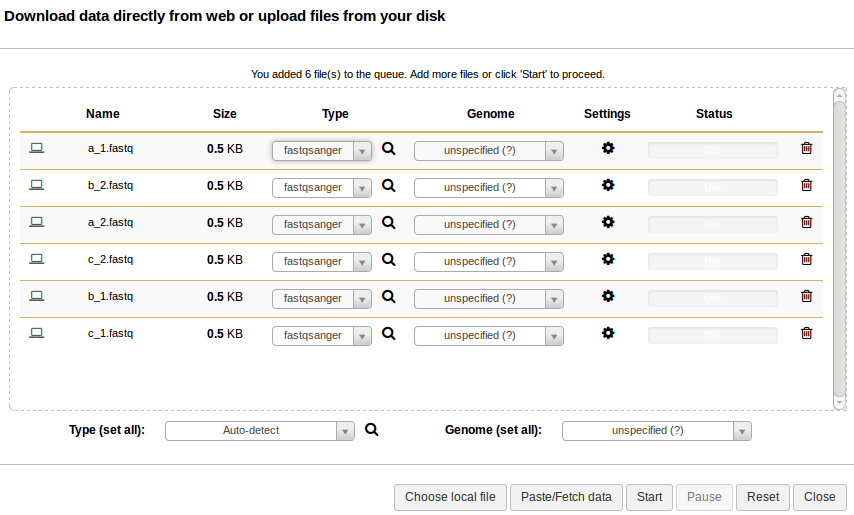
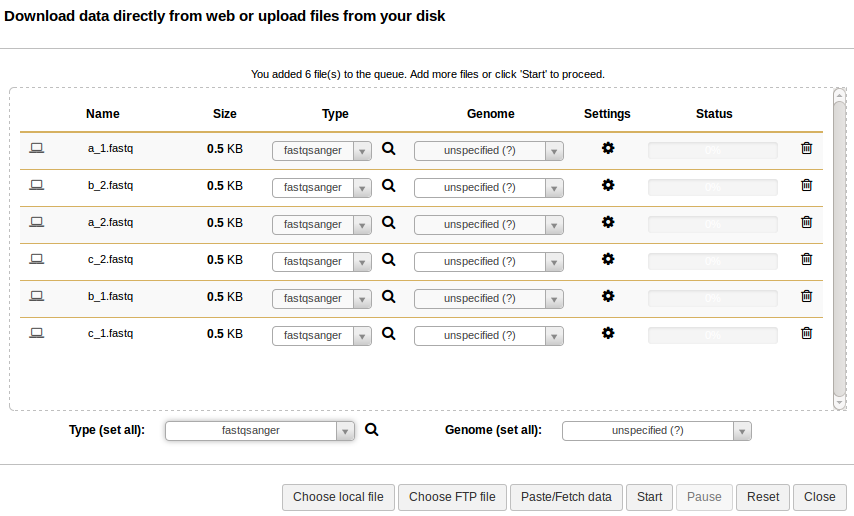
Finished user guide

diff --git a/docs/user-guide/usage.md b/docs/user-guide/usage.md
@@ -11,7 +11,7 @@ curl -sSL https://get.docker.com/ | sh # Installs Docker
 sudo docker run -t -p 48888:80 apetkau/snvphyl-galaxy:0.2-beta-1 # Downloads and runs SNVPhyl and Galaxy 
 ```
 
-This will install Docker, download the SNVPhyl Galaxy docker image, and run this image in a Docker container.  See the [Docker Install][] guide for more details.
+This will install Docker, download the SNVPhyl Galaxy docker image, and run this image in a Docker container.  This may take a while to fullly download and start up.  See the [Docker Install][] guide for more details.
 
 Once running, you may log into the SNVPhyl Galaxy instance by going to <http://localhost:48888> on your machine.  This should present you with a screen like the following:
 
@@ -29,28 +29,39 @@ The data must first be uploaded to the SNVPhyl Galaxy instance before it can be 
 
 This should bring up a window for uploading files to Galaxy.
 
+![get-data-window-galaxy][]
+
 ## Reference Genome
 
-The reference genome should be in **fasta** format.  Galaxy will auto-detected the correct file format on upload.  When the correct file is chosen, click **Start** to begin uploading.  This will schedule an upload task in Galaxy and place the reference file in your Galaxy **History**.
+The reference genome should be in **fasta** format.  Galaxy will auto-detected the correct file format on upload.  For the test data, this file is called `reference.fasta`.  When the correct file is chosen, click **Start** to begin uploading.  This will schedule an upload task in Galaxy and place the reference file in your Galaxy **History**.
 
 ![upload-reference][]
 
 ## Invalid Positions Masking File
 
-An optional input for SNVPhyl is a list of positions on the reference genome to exclude when constructing a phylogeny.  This can be useful for excluding problematic regions such as phage regions.  The list of regions should be defined in a tab-deliminated ([BED][]-like) file which looks as follows:
+An optional input for SNVPhyl is a list of positions on the reference genome to exclude when constructing a phylogeny.  This can be useful for excluding problematic regions such as phage regions, plasmids, etc.  The list of regions should be defined in a tab-deliminated ([BED][]-like) file which looks as follows:
 
 ```
 #Chromosome    Start    End
 reference      1        10
 ```
 
-For the provided dataset, this file is named `invalid-positions.bed`.  Select and upload this file similar to uploading the reference genome.  When complete, the file should show up in your Galaxy history.
+The **Chromosome** field references the chromosome/contig/fasta sequence name in the reference file.
+
+```
+>reference
+TCCACAAGCCATTGTGTGTAATTAACCACTAATTGTGTATAAGTTTAAACTAATTGAAAAGGTTATCCAC
+```
+
+The start and end are start/end coordinates on this fasta sequence.
+
+An example file, `invalid-positions.bed`, is provided in the test dataset.  Select and upload this file similar to uploading the reference genome.  When complete, the file should show up in your Galaxy history.
 
 ![upload-invalid-positions][]
 
 ## Sequence Reads
 
-Sequence reads should be uploaded to Galaxy in the **fastqsanger** format.  From the upload window, select the all the sequence reads under `reads/` and set the type to **fastqsanger** (Galaxy will not properly auto-detect sequence reads).  This should look like the following.
+Sequence reads should be uploaded to Galaxy in the **fastqsanger** format.  From the upload window, select the all the sequence reads under `reads/` and set the type to **fastqsanger** (Galaxy defaults to type **fastq**, which is not as useful).  This should look like the following.
 
 ![upload-sequence-reads][]
 
@@ -60,10 +71,99 @@ When all the reads are uploaded, you should see the following in your Galaxy his
 
 ## Preparing Sequence Reads
 
-SNVPhyl makes use of a data structure in Galaxy called [Dataset Collections][].  Dataset collections allow the combining of files into a single entry in Galaxy to execute in a workflow.  The SNVPhyl workflow assumes all sequence reads are combined in a paired-end dataset collection, which will properly associated each pair of sequence reads files.
+SNVPhyl makes use of a data structure in Galaxy called [Dataset Collections][].  Dataset collections allow the grouping of files into a single entry in Galaxy to execute in a workflow.  The SNVPhyl workflow assumes all sequence reads are combined in a paired-end dataset collection, which will properly associated each pair of sequence reads files.
 
 To construct a paired dataset collection of reads in Galaxy, please do the following:
 
+1.  Select the **Operate on multiple datasets** button in the Galaxy histories panel.
+
+    ![operate-multiple-datasets][]
+
+2.  Select all the **fastq** sequence files.
+
+    ![select-sequence-files][]
+
+3.  Select **For all selected > Build List of Dataset Pairs**
+
+    ![build-list-pairs][]
+
+4.  In the screen that follows, all the sequence reads should be automatically paired.
+
+    ![paired-data-screen1][]
+
+    Give the collection of files a name and select **Create list**.
+
+    ![paired-data-screen2][]
+
+    The set of paired files should appear in your Galaxy history.
+
+    ![paired-data-list][]
+
+# Running the Workflow
+
+Once all the data has been prepared, the workflow can be run.  The installed workflows can be found in the Galaxy **Tools** panel at the left of the screen.
+
+![tools-panel][]
+
+Near the bottom.
+
+![installed-workflows][] 
+
+There are two installed workflows, **SNVPhyl v0.2 Paired-End** and **SNVPhyl v0.2 Paired-End (invalid positions)** which differ only in that one workflow includes the addition of an invalid positions masking file.  Selecting the appropriate workflow brings up the **Parameters** screen.
+
+## Parameters
+
+All parameters for each tool can be overridden in Galaxy, but a few key parameters will appear at the top of the parameters page.
+
+![parameters-list][]
+
+These parameters represent:
+
+1. **min_coverage**:  The minimum coverage for any given position on the reference genome to be included in the analysis.  A reasonable value here is **10** or **15**, however, for the test data a value of **5** should be chosen due to the number of reads included.
+2. **min_mean_mapping**: The minimum mean mapping quality score for all reads in a pileup to be included for analysis.  A reasonable value here is **30**.
+3. **alternative_allele_proportion**:  The proportion of reads required to support a variant to be included in the analysis.  A reasonable value here is **0.75**.
+
+Once parameters are selected, the input files can be selected.
+
+## Input files
+
+Galaxy should automatically detect the appropriate input files from the current history.  However, please verify it has picked up the correct files.  If the workflow **SNVPhyl v0.2 Paired-End** has been selected then there will be no place to select an **invalid_positions** file.
+
+![input-files-selection][]
+
+## Run
+
+Once the parameters and input files have been selected, you can run the workflow by clicking the **Run workflow** at the bottom of the screen.
+
+![run-workflow][]
+
+This will start the workflow.  You may have to refresh your page to see each step being executed.  This should look like:
+
+![workflow-running][]
+
+# Results
+
+On completion each item in the Galaxy history should show up as green.  The very top should contain the main output files.
+
+![output-files][]
+
+In particular, the file **phylogeneticTree.newick** contains the ouput phylgeny.  This can be quickly visualied using the built-in viewer in Galaxy by selecting **Visuzlize in Phyloviz**.
+
+![phylogeny-vis][]
+
+This loads up the phylogeny in a viewer similar to below.
+
+![example-phylogeny][]
+
+All intermediate files in the workflow can be inspected by first selecting the Galaxy history options.
+
+![history-options][]
+
+Then selecting **Unhide hidden datasets**.
+
+![unhide-hidden-datasets][]
+
+For more information about interacting with data from Galaxy, please see the [Learn Galaxy][] page.  For real-world example datasets analyzed using SNVPhyl, please see the [Examples][] page.
 
 [Galaxy]: http://galaxyproject.org/
 [Docker]: https://www.docker.com/
@@ -72,8 +172,28 @@ To construct a paired dataset collection of reads in Galaxy, please do the follo
 [snvphyl-galaxy-docker]: images/snvphyl-galaxy-docker.png
 [test-data.tar.gz]: workflows/SNVPhyl/0.2/test-data.tar.gz
 [get-data-galaxy]: images/get-data-galaxy.png
+[get-data-window-galaxy]: images/get-data-window-galaxy.png
 [upload-sequence-reads]: images/upload-sequence-reads.png
 [upload-reference]: images/upload-reference.png
 [upload-invalid-positions]: images/upload-invalid-positions.png
 [upload-sequence-reads-history]: images/upload-sequence-reads-history.png
 [BED]: http://genome.ucsc.edu/FAQ/FAQformat#format1
+[operate-multiple-datasets]: images/operate-multiple-datasets.png
+[select-sequence-files]: images/select-sequence-files.png
+[build-list-pairs]: images/build-list-pairs.png
+[paired-data-screen1]: images/paired-data-screen1.png
+[paired-data-screen2]: images/paired-data-screen2.png
+[paired-data-list]: images/paired-data-list.png
+[installed-workflows]: images/installed-workflows.png
+[parameters-list]: images/parameters-list.png
+[input-files-selection]: images/input-files-selection.png
+[run-workflow]: images/run-workflow.png
+[workflow-running]: images/workflow-running.png
+[output-files]: images/output-files.png
+[phylogeny-vis]: images/phylogeny-vis.png
+[example-phylogeny]: images/example-phylogeny.png
+[history-options]: images/history-options.png
+[unhide-hidden-datasets]: images/unhide-hidden-datasets.png
+[Learn Galaxy]: https://wiki.galaxyproject.org/Learn
+[Examples]: examples/
+[tools-panel]: images/tools-panel.png
